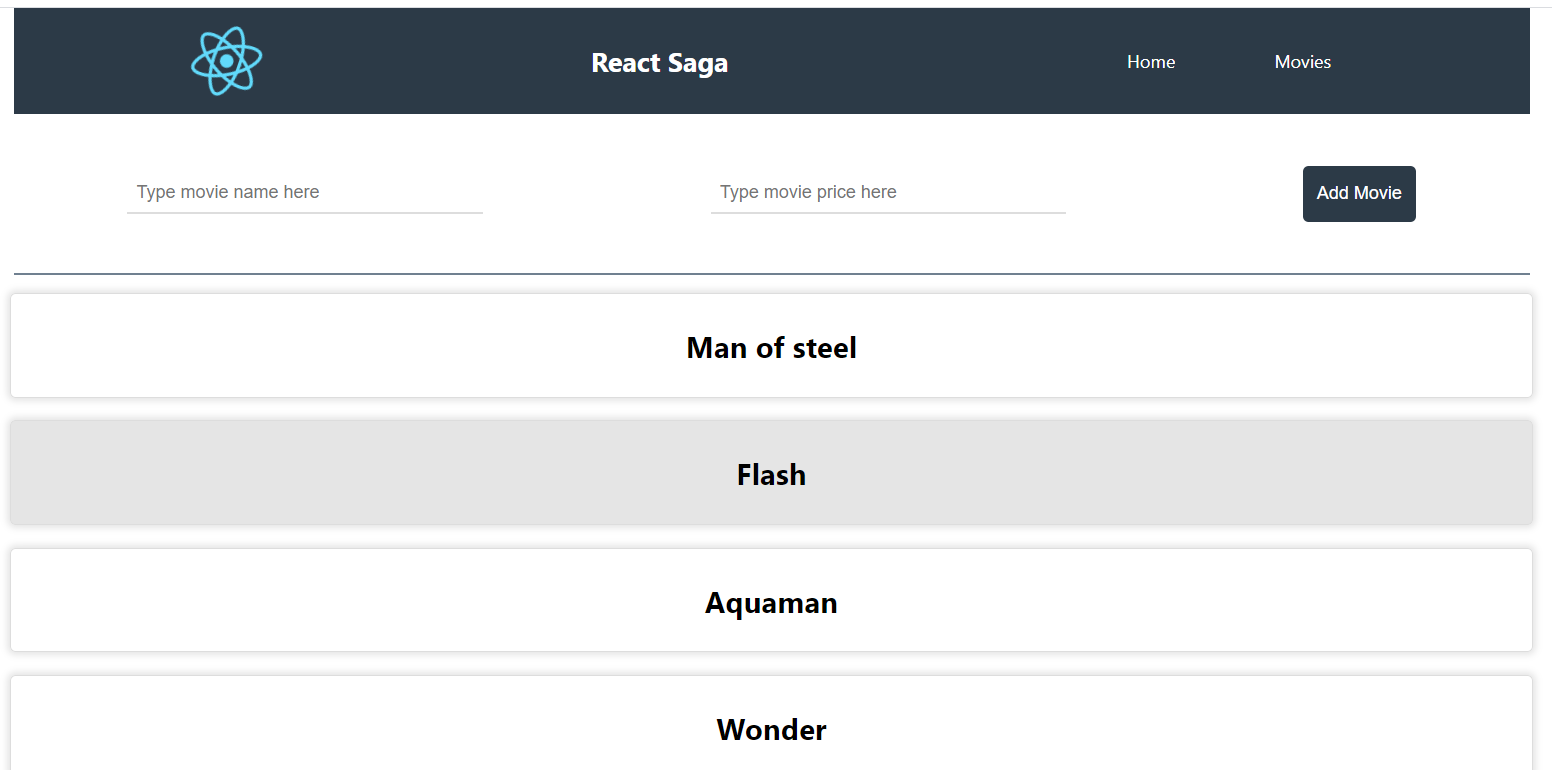
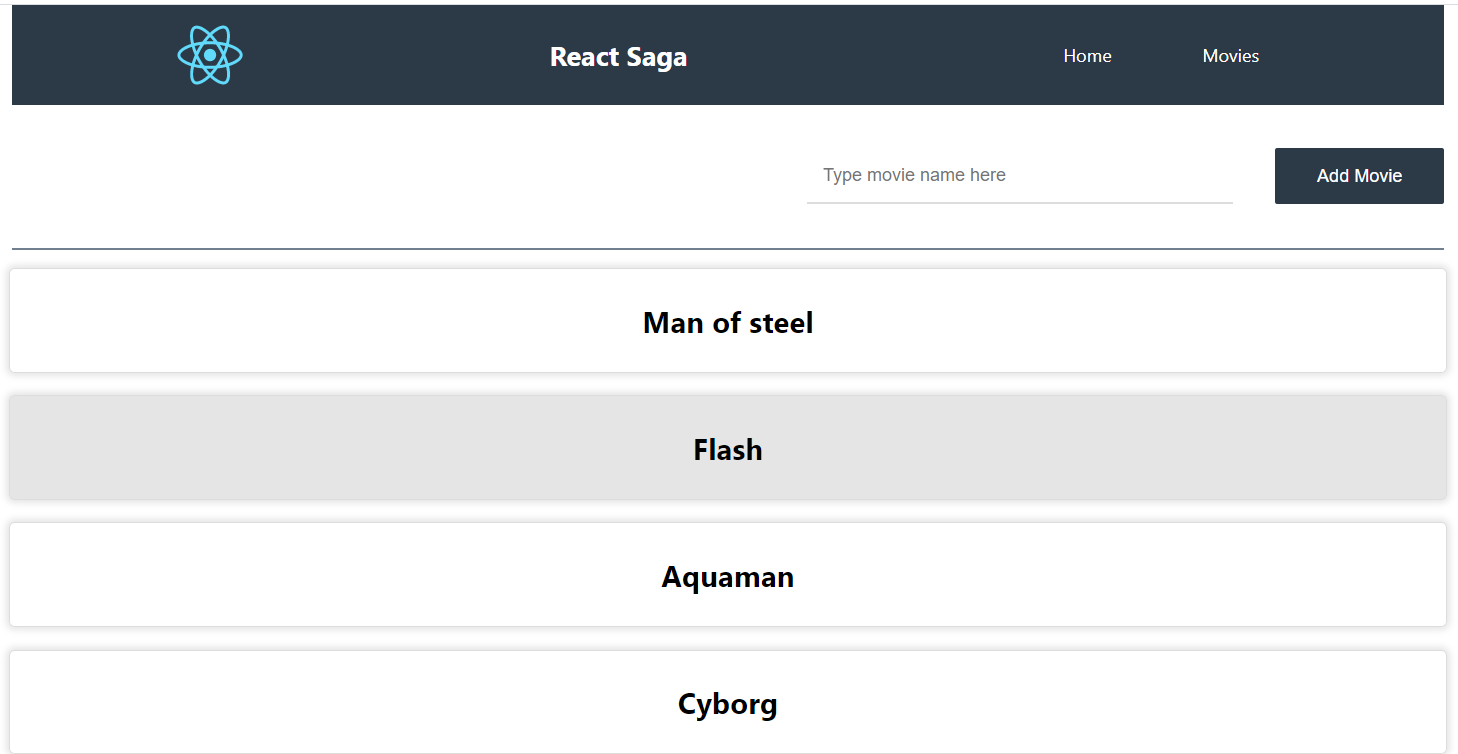
add remove saga

diff --git a/src/MovieDetail.js b/src/MovieDetail.js
@@ -1,4 +1,7 @@
-import React from 'react';
+import React, { useState, useEffect } from 'react';
+import { useSelector, useDispatch } from 'react-redux';
+import { requestDeleteMovie } from './store/actions';
+import { useHistory } from "react-router-dom";
 
 import style from 'styled-components';
 import './App.css';
@@ -6,7 +9,7 @@ import './App.css';
 
 const Div = style.div`
     display: flex;
-    flex-direction: column;
+    flex-direction: row;
     justify-content: space-around;
     align-items: center;
     margin: 20px auto auto auto;    
@@ -17,15 +20,62 @@ const Div = style.div`
     box-shadow: 0 0 6px 3px rgba(0,0,0,0.1);
     font-size: 1.4rem;
     font-weight: bold;    
-    width: 80%;    
+    width: 80%;  
+    transition: opacity .3s;     
+    transition-delay: 150ms;     
+    opacity: ${({ isVisible }) => isVisible ? 1 : 0};  
 `;
 
+const MovieDetail = ({ match }) => {
 
-const MovieDetail = () => {
+    const history = useHistory();
+    const [movie, setMovie] = useState({}); 
+    const movies = useSelector(state => state.movies);
+    const dispatch = useDispatch();
+    
+    const [divVisibility, setDivVisibility] = useState(false);
+    const toggleVisibility = () => setDivVisibility(!divVisibility||true);       
+    
+    useEffect(() => {
+        setTimeout(() => {
+            toggleVisibility();
+        }, 250);     
+    })
+
+    
+    useEffect(() => {       
+      getMovieFromState();
+      // eslint-disable-next-line
+    },[])   
+  
+    const getMovieFromState = () => {
+      const data = movies.data.filter(mov => mov.id.toString() === match.params.id );
+      setMovie(data[0]);       
+    }
+
+    const deleteMovie = () => {
+      dispatch(requestDeleteMovie(movie));
+      history.goBack();      
+    }
+    
 
     return (
-        <Div>
-          <h3>Aloha</h3>
+        <Div isVisible={divVisibility}>
+          <h3>{movie.name}</h3>
+          <button className="App-button_action" onClick={()=> deleteMovie()}>
+            <svg
+              xmlns="http://www.w3.org/2000/svg"
+              width="24"
+              height="24"
+              viewBox="0 0 24 24"  
+              fill="red"            
+            >
+              <path
+                d="M6 19c0 1.1.9 2 2 2h8c1.1 0 2-.9 2-2V7H6v12zM19 4h-3.5l-1-1h-5l-1 1H5v2h14V4z"
+              />
+              <path d="M0 0h24v24H0z" fill="none" />
+            </svg>
+          </button>
         </Div>
     )
 }

diff --git a/src/AddMovie.js b/src/AddMovie.js
@@ -5,7 +5,7 @@ import style from 'styled-components';
 
 const Form = style.form`
     display: flex;
-    justify-content: space-around;
+    justify-content: flex-end;
     align-items: center;
     min-height: 18vh;
     width: 80%;  
@@ -18,10 +18,11 @@ const Form = style.form`
 
 const Input = style.input`
     font-size: 16px;
-    padding: 8px;
+    padding: 14px;
+    margin-right: 30px;
     border: none;
     border-bottom: 2px solid #ddd;    
-    width: 300px;
+    width: 350px;
     outline: none;
 `;
 
@@ -41,29 +42,21 @@ const AddMovie = () => {
     })
     
     
-    const [name, setName] = useState('');
-    const [price, setPrice] = useState('');
-
-    
-    
+    const [name, setName] = useState('');   
+        
     const updateName = e => {
         setName(e.target.value);
-    };
-
-    const updatePrice = e => {
-        setPrice(e.target.value);
-    };
+    };  
 
     const submitMovie = e => {
         e.preventDefault();
         const isDuplicateMovie = movies.data.some(movie => movie.name === name);
         
         if(!isDuplicateMovie) {
-            const newMovie = {name: name, price: price, id: new Date().getTime(),};              
+            const newMovie = {name: name, id: new Date().getTime(),};              
             dispatch(requestAddMovie(newMovie));
                         
-            setName('');
-            setPrice('');
+            setName('');           
         }       
     };
     
@@ -76,15 +69,8 @@ const AddMovie = () => {
                 placeholder="Type movie name here"
                 name="name"
                 value={name} 
-                onChange={updateName}/>
+                onChange={updateName}/>           
             
-            <Input 
-                type="text"
-                autocomplete="off"
-                name="price"
-                placeholder="Type movie price here"
-                value={price}
-                onChange={updatePrice}/>
             <button className="App-button">Add Movie</button>
         </Form>
 

diff --git a/src/store/sagas.js b/src/store/sagas.js
@@ -68,6 +68,38 @@ function* requestAddMovieAsync({ payload }) {
     }
 }
 
+function* requestDeleteMovieAsync({ payload }) {
+    
+    try {
+        
+        const { movie } = payload;
+               
+        const { REACT_APP_BASE_URL } = process.env;        
+        
+        const response = yield call(
+            fetch,
+            `${REACT_APP_BASE_URL}movies/${movie.id}`,{                
+                method: 'delete',                
+            }
+        );  
+
+        // eslint-disable-next-line
+        const removedMovie = yield call([response, response.json]); 
+        
+        yield put({ type: 'SUCCESS_DELETE_MOVIE' });
+        
+
+    } catch(error) {
+        console.log(
+            "%cERROR",
+            "text-transform: uppercase; padding: 10px; background: red; color: white;",
+            `requestDeleteMovieAsync: ${error}`
+        );
+
+        yield put({ type: 'FAILURE_DELETE_MOVIE' });
+    }
+}
+
 function* watchRequestMoviesAsync() {
     yield takeLatest('REQUEST_MOVIE_LIST', requestMoviesAsync)
 }
@@ -76,10 +108,15 @@ function* watchRequestAddMovieAsync() {
     yield takeLatest('REQUEST_ADD_MOVIE', requestAddMovieAsync)
 }
 
+function* watchRequestDeleteMovieAsync() {
+    yield takeLatest('REQUEST_DELETE_MOVIE', requestDeleteMovieAsync)
+}
+
 
 export default function* rootSaga() {
     yield all([
         watchRequestMoviesAsync(),
         watchRequestAddMovieAsync(),
+        watchRequestDeleteMovieAsync(),        
     ])
 };

diff --git a/src/store/reducers.js b/src/store/reducers.js
@@ -39,7 +39,23 @@ export const movies = (state = initialState, action) => {
             return {
                 ...state,
                 loading: false,              
-            };        
+            };
+        case 'REQUEST_DELETE_MOVIE':          
+         const { movie: movieToRemove } = payload;     
+            return {
+                ...state,                      
+                data: state.data.filter(movie => movie.id !== movieToRemove.id),
+            };  
+        case 'SUCCESS_DELETE_MOVIE':
+            return {
+                ...state,
+                loading: false,              
+            };       
+        case 'FAILURE_DELETE_MOVIE':
+            return {
+                ...state,
+                loading: false,              
+            }; 
         default:
             return state;
     }

diff --git a/src/App.css b/src/App.css
@@ -10,24 +10,35 @@
   }
 }
 
-.App-button {    
+.App-button,.App-button_action {    
   cursor: pointer;
   outline: none;
   margin-left: 8px;
   display:inline-block;
   padding: 8px;
-  border-radius:5px;   
+  border-radius:2px;   
   height:50px;
-  width: 100px;
+  width: 150px;
   border:none;
   background-color:rgb(44, 58, 71);
   color:white;
   font-size:16px;    
-  transition: .5s ease-in;  
+  transition: .5s ease-in;   
 }
 
 .App-button:hover{
   background-color:#727883;
+  transition: background-color .5s;
+}
+
+.App-button_action {  
+  background-color:lightgrey;
+  height: 40px;
+  width: 50px;  
+}
+
+.App-button_action:hover{
+  background-color:#6d6d6d;
   transition: background-color .5s;
 }
 

diff --git a/src/store/actions.js b/src/store/actions.js
@@ -25,3 +25,16 @@ export const successAddMovie = () => ({
 export const failureAddMovie = () => ({
     type: 'FAILURE_ADD_MOVIE',     
 });
+
+export const requestDeleteMovie = movie => ({
+    type: 'REQUEST_DELETE_MOVIE',
+    payload: { movie },              
+});
+
+export const successDeleteMovie = () => ({
+    type: 'SUCCESS_DELETE_MOVIE',     
+});
+
+export const failureDeleteMovie = () => ({
+    type: 'FAILURE_DELETE_MOVIE',     
+});
